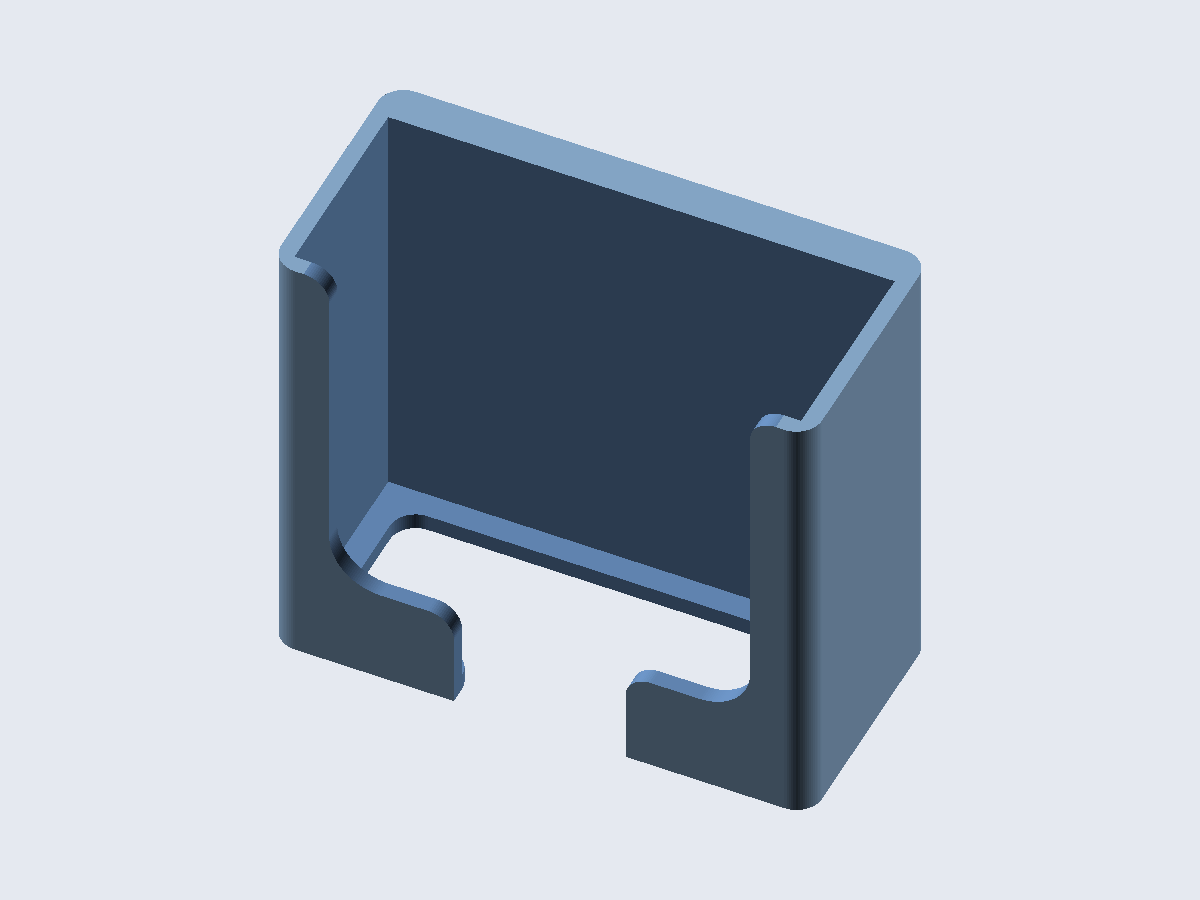
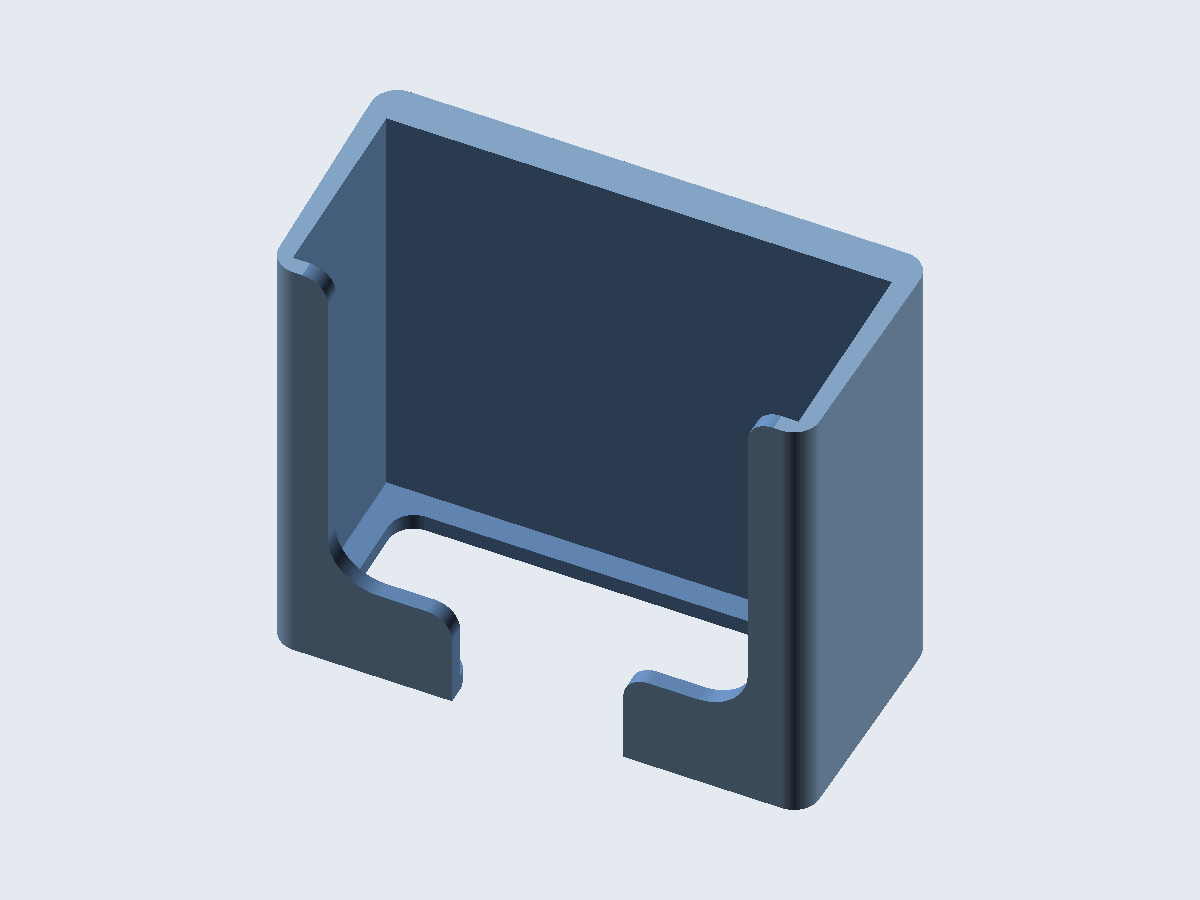
✨ Add an optional flare for two openConnect connectors

diff --git a/openconnect_item_holder/README.md b/openconnect_item_holder/README.md
@@ -68,6 +68,10 @@ tighter and make the holder harder to fit. `slot_side_clearance` and `slot_depth
 openConnect slot's fit, as mitufy's generator ships it. Raise them if the slots are tight on your
 printer.
 
+`flare_for_two_connectors` widens the exterior toward the back just enough for two columns of
+openConnect slots. The pocket and its clearances stay the same. A holder already wide enough for two
+columns keeps its shape, and the slot grid can still fit more columns on wider holders.
+
 The rest follows. The back wall is the 2.7 mm slot depth plus `wall_thickness`. The slot grid is as
 many 28 mm cells as fit on the flat of the back, centred, keeping `wall_thickness` clear of the
 edges and the rounded corners. The render `echo`s the pocket, body, floor opening and slot grid, and
@@ -85,8 +89,9 @@ switching devices means picking a name rather than retyping numbers:
   [preview](openconnect_item_holder_sabrent_voltik_charging_station.png)). Its rubber feet are why
   its depth clearance is 2 mm, and its 10 mm cord slot passes a flat cable.
 - **Ezcoo EZ-EX50 USB extender** ([STL](openconnect_item_holder_ezcoo_ez_ex50_usb_extender.stl),
-  [preview](openconnect_item_holder_ezcoo_ez_ex50_usb_extender.png)). It has a cord plugged into the
-  bottom at each side, so its 20 mm cord slot leaves room to work both through.
+  [preview](openconnect_item_holder_ezcoo_ez_ex50_usb_extender.png)). The back flares for two
+  side-by-side connectors. It has a cord plugged into the bottom at each side, so its 20 mm cord
+  slot leaves room to work both through.
 - **Apple TV (2026)** ([STL](openconnect_item_holder_apple_tv_2026.stl),
   [preview](openconnect_item_holder_apple_tv_2026.png)). Same lips, clearances and cord slot as the
   extender above.
